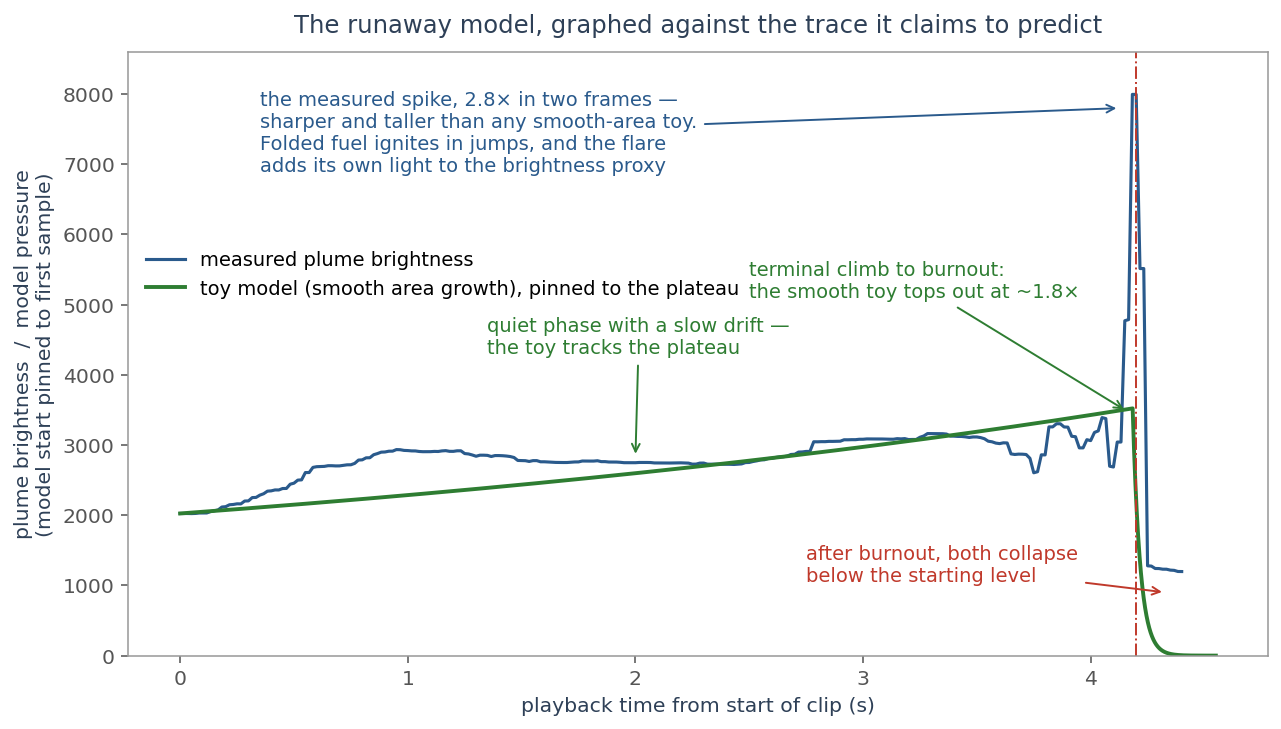
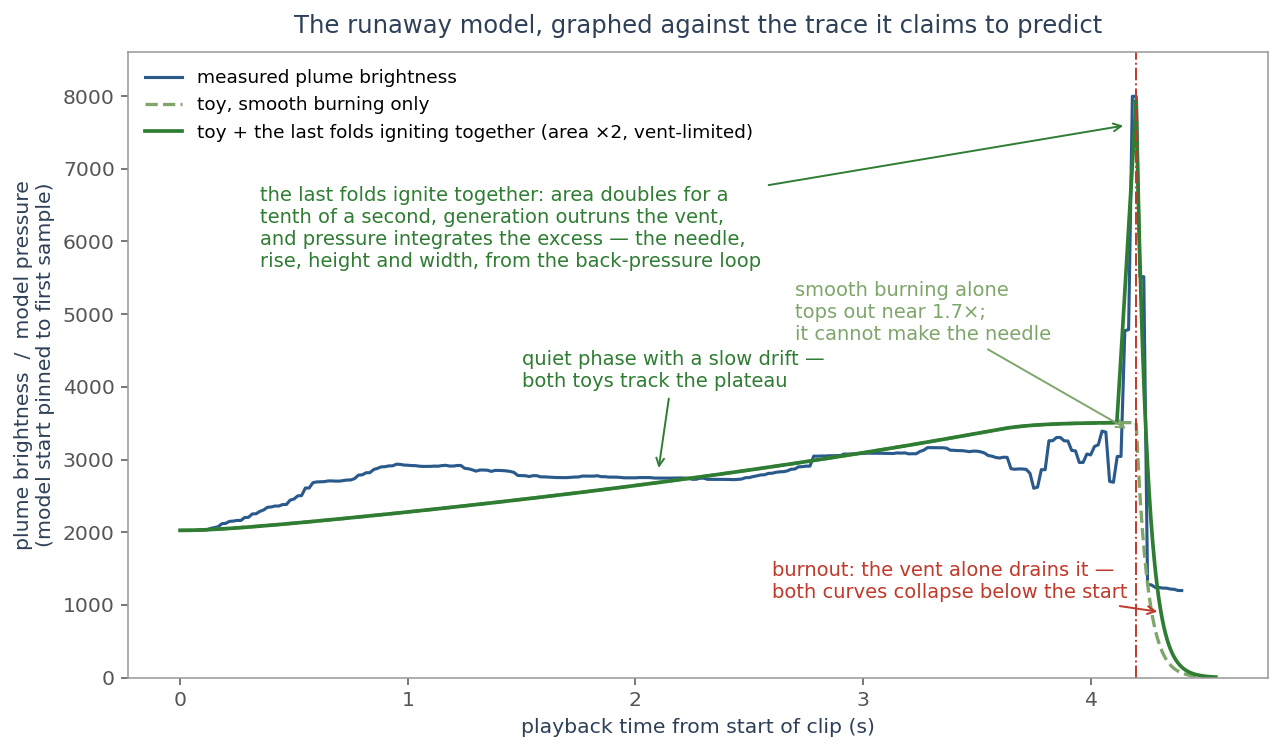
action-lab-footage §2: the needle too — finite venting plus a terminal fold-jump
Operator's mechanism: back pressure when generation outruns the vent.
Quasi-steady venting was what capped the toy at 1.7x; with a finite vent
and the last folds doubling the burning area for the final tenth of a
second, the needle reproduces in rise, height (3.9x first sample = 2.8x
plateau mean) and width, and the measured collapse independently sets the
vent rate. Figure now overlays both toy variants; caption states every
dialled constant.

diff --git a/docs/action-lab-footage/index.html b/docs/action-lab-footage/index.html
@@ -132,10 +132,10 @@ em.term{font-style:normal;font-weight:600;color:var(--heading)}
 <div class="eq">P<sub>eq</sub> &prop; A<sub>b</sub><sup>1/(1&minus;n)</sup> &nbsp;&nbsp;&mdash;&nbsp; at n&nbsp;=&nbsp;0.7, that is A<sub>b</sub><sup>3.3</sup></div>
 <p>where <em>A<sub>b</sub></em> is the burning surface area. Doubling the area that is alight raises the equilibrium pressure roughly <em>tenfold</em>. Paper lit at a point spreads its burning front; the front's area grows; pressure climbs steeply; higher pressure drives the front faster. The predicted signature is a long quiet phase, a terminal climb, and a hard collapse below the starting level at burnout &mdash; and rather than assert that, the figure below graphs it against the measured trace.</p>
 <figure>
-  <img src="assets/runaway-model.png" alt="A single chart of plume brightness against playback time. The measured trace drifts slowly around a plateau for four seconds, spikes to 2.8 times the plateau at 4.2 seconds, and collapses below its starting level. A smooth green model curve, pinned to the first sample, tracks the plateau's drift, climbs to about 1.8 times at burnout, and collapses below the starting level in the same place. Annotations mark the quiet phase, the terminal climb, the measured spike exceeding the smooth toy, and the shared collapse.">
-  <figcaption><b>The prediction, graphed.</b> The green curve integrates the toy model &mdash; a point-lit sheet whose front spreads at Vieille's rate, burning area growing smoothly, chamber pressure quasi-steady against venting, <em>n</em>&nbsp;=&nbsp;0.7 &mdash; with its constants pinned to the plateau (start level, plateau drift, burnout time); the shape is then forced, not fitted. It reproduces the quiet phase, the drift, the terminal climb, and the collapse below the starting level. What it does not reproduce is the spike's full height and sharpness: a smooth toy tops out at ~1.8&times; against the measured 2.8&times; in two frames. The shortfall tracks the toy's weakest assumption &mdash; real crumpled fuel ignites fold by fold, in jumps &mdash; and the flare adds its own light to a brightness proxy that otherwise measures scattering smoke. <span class="cred">Original figure; model integrated from the equation above, measured trace as in &sect;1.</span></figcaption>
+  <img src="assets/runaway-model.png" alt="A single chart of plume brightness against playback time. The measured trace drifts slowly around a plateau for four seconds, spikes sharply at 4.2 seconds, and collapses below its starting level. Two green model curves are overlaid: a dashed one with smooth burning only, which tracks the plateau and tops out near 1.7 times, and a solid one in which burning area doubles for the final tenth of a second against a finite vent, which reproduces the needle's rise, height and width and collapses with the measured trace below the starting level.">
+  <figcaption><b>The prediction, graphed.</b> The dashed curve integrates the toy model &mdash; a point-lit sheet whose front spreads at Vieille's rate, burning area growing smoothly, venting through the tip, <em>n</em>&nbsp;=&nbsp;0.7 &mdash; with its constants pinned to the plateau (start level, drift, burnout time). It reproduces the quiet phase, the drift, and the collapse below the starting level, and it tops out near 1.7&times;: smooth burning cannot make the needle. The solid curve adds one event, read from the trace itself: at 4.115&nbsp;s the remaining folds ignite together, doubling the burning area for the final tenth of a second. Generation then outruns what the tip can pass, pressure integrates the excess &mdash; the back-pressure loop &mdash; and the needle comes out at the measured rise, height and width, with the vent rate set independently by the measured collapse. A cartoon with dialled constants, not a fit; its claim is that nothing exotic is required &mdash; a doubled area against a finite vent is the whole needle. (The flare also adds its own light to a proxy that otherwise measures scattering smoke, so the peak's exact height is the least certain number here.) <span class="cred">Original figure; model integrated from the equation above, measured trace as in &sect;1.</span></figcaption>
 </figure>
-<div class="killer"><strong>The free burn is the comparison that matters, and what it establishes is enough: the terminal peak is a property of confined burning, and it appears with no vehicle in the chamber for a wall to push.</strong> Same chamber, same pressure, same propellant, same walls; unconfined, the burn creeps and dies with no peak &mdash; confined, it spikes. The two cases differ in more than confinement &mdash; a launch also has a directed jet &mdash; but the peak needs neither the jet nor the wall to be explained: confinement plus the burning-area law above accounts for it feature by feature, and the jet's own interaction with the wall is what &sect;3 closes on timing and momentum. Neither The Action Lab nor the book offers any explanation of the peak; this one is quantitative, uses the video's own footage as its comparison, and its prediction is graphed above &mdash; phases reproduced, shortfall stated. It also explains the first launch: a smaller syringe means a smaller volume, so the same area growth drives pressure up faster, and further before burnout &mdash; it ran away harder. The presenter's fix, &ldquo;let's try a little bit bigger syringe,&rdquo; is precisely how an engineer tames a pressure runaway.</div>
+<div class="killer"><strong>The free burn is the comparison that matters, and what it establishes is enough: the terminal peak is a property of confined burning, and it appears with no vehicle in the chamber for a wall to push.</strong> Same chamber, same pressure, same propellant, same walls; unconfined, the burn creeps and dies with no peak &mdash; confined, it spikes. The two cases differ in more than confinement &mdash; a launch also has a directed jet &mdash; but the peak needs neither the jet nor the wall to be explained: confinement plus the burning-area law above accounts for it feature by feature, and the jet's own interaction with the wall is what &sect;3 closes on timing and momentum. Neither The Action Lab nor the book offers any explanation of the peak; this one is quantitative, uses the video's own footage as its comparison, and its prediction is graphed above &mdash; the phases forced by the equation, the needle by the last folds igniting against a finite vent. It also explains the first launch: a smaller syringe means a smaller volume, so the same area growth drives pressure up faster, and further before burnout &mdash; it ran away harder. The presenter's fix, &ldquo;let's try a little bit bigger syringe,&rdquo; is precisely how an engineer tames a pressure runaway.</div>
 
 <h2>3 &middot; Why the delay cannot be the wall</h2>
 <p>Now the claim itself. For the wall to be the engine, the contact at ~332.8&nbsp;s has to cause the motion at ~334.6&nbsp;s &mdash; something has to carry the push from the wall back to the syringe across that two-second gap of playback. Physically there are only two candidates: the gas carries it as a <em>pressure wave</em>, or the gas carries it as <em>returning material</em>. Both fail, in opposite directions.</p>
